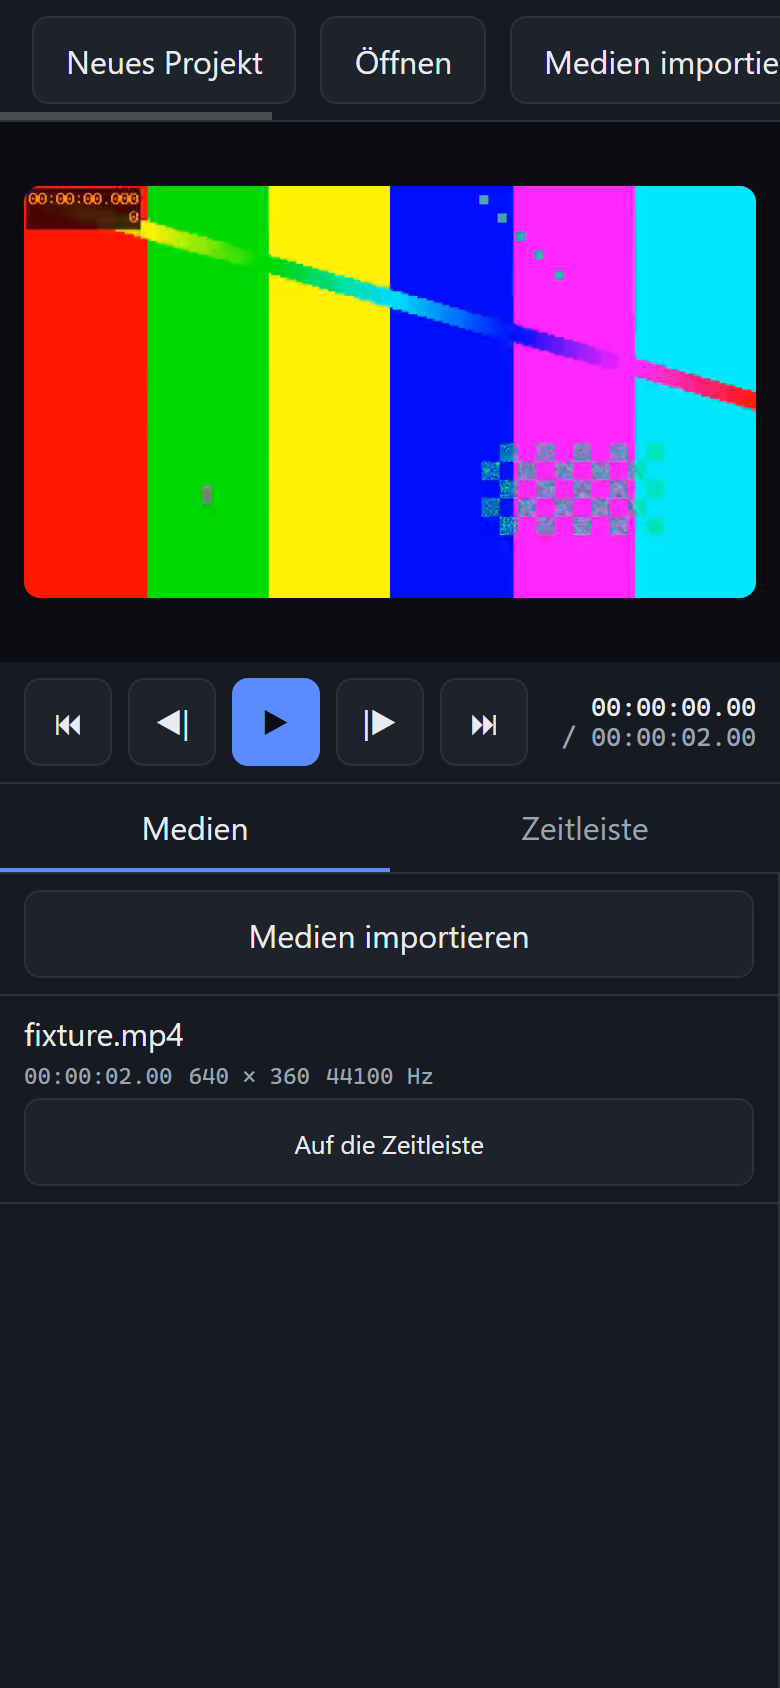
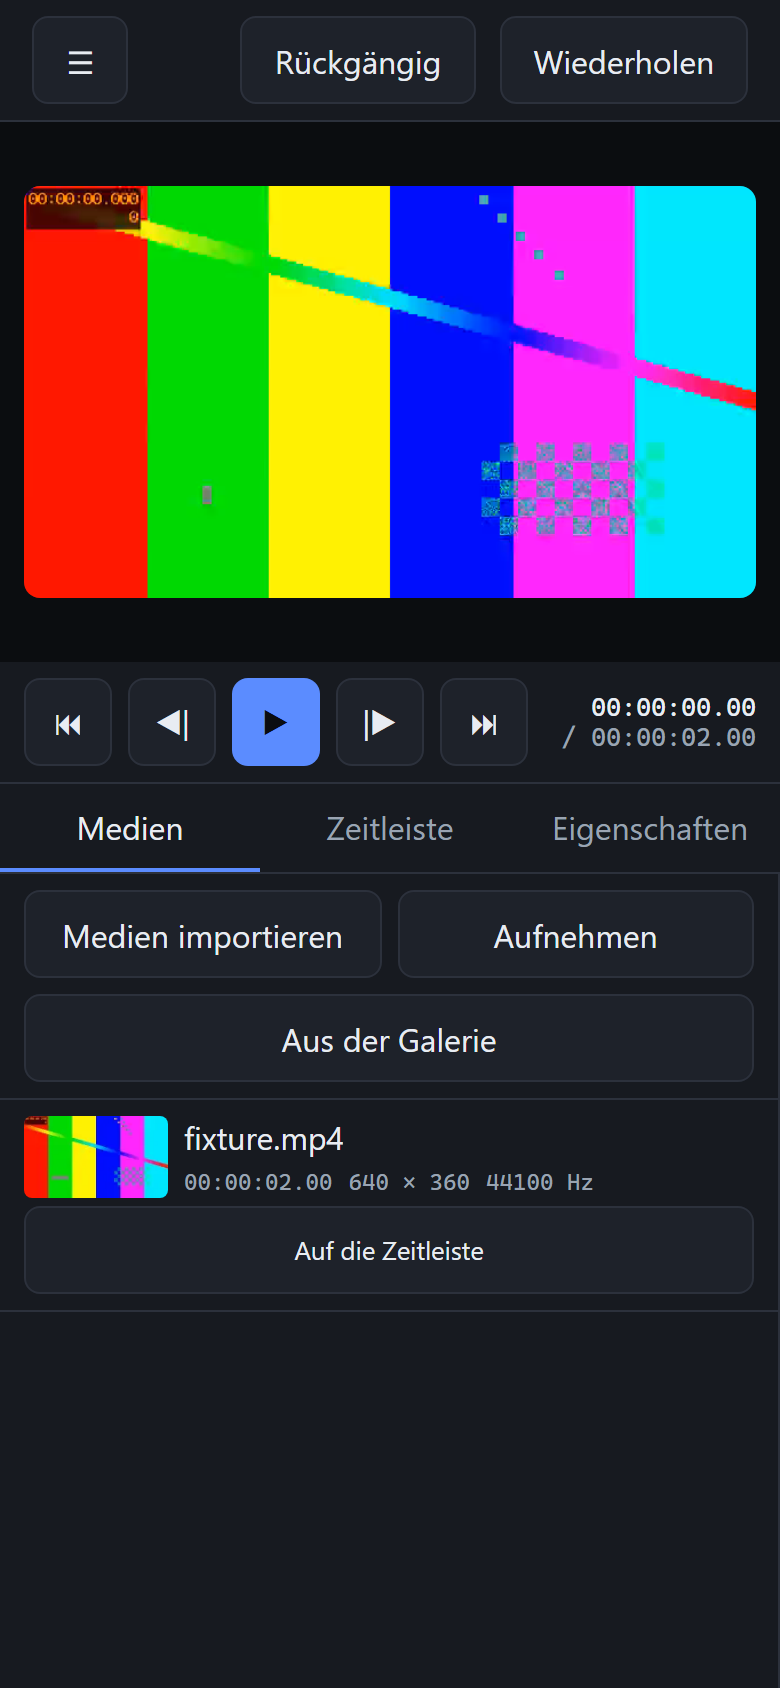
docs: Telefon- und Tablet-Abschnitt auf den gebauten Stand bringen
Kopfzeile im Ueberlaufmenue, dritter Reiter fuer Eigenschaften, Kamera und
Galerie ueber input[capture], und der Tablet-Modus als eigener Abschnitt mit
dem Zug aus der Bibliothek auf eine Spur. Im Abschnitt ueber Geprueftes steht
jetzt der Tablet-Lauf und was an capture nicht nachweisbar ist.

diff --git a/apps/docs/de/guide/editing.md b/apps/docs/de/guide/editing.md
@@ -139,20 +139,68 @@ fortsetzen; der erste Druck auf Abspielen tut deshalb etwas mehr als die folgend
 ![Die Medienbibliothek auf einem Telefon, die Vorschau bleibt darüber stehen](/phone-library.png)
 
 Unter 768 px wechselt der Editor in eine Spalte: Vorschau und Transport bleiben oben stehen, eine
-Leiste darunter wechselt zwischen **Medien** und **Zeitleiste**. Das Bild muss sichtbar bleiben,
-während man darunter arbeitet, und 390 px tragen Bibliothek, Vorschau und Timeline nicht
-nebeneinander, ohne dass alle drei unbrauchbar werden.
+Leiste darunter wechselt zwischen **Medien**, **Zeitleiste** und **Eigenschaften**. Das Bild muss
+sichtbar bleiben, während man darunter arbeitet, und 390 px tragen Bibliothek, Vorschau und Timeline
+nicht nebeneinander, ohne dass alle drei unbrauchbar werden.
 
-Zwei Bereiche, nicht die sechs aus dem Entwurf. Effekte, Text, Ton und Export haben noch keine
-Fläche; ein Reiter, der nichts öffnet, ist schlimmer als ein Reiter, den es nicht gibt — jeder
-kommt an dem Tag dazu, an dem seine Fläche kommt.
+Drei Bereiche, nicht die sechs aus dem Entwurf. Text, Ton und Export haben noch keine eigene Fläche;
+ein Reiter, der nichts öffnet, ist schlimmer als ein Reiter, den es nicht gibt — jeder kommt an dem
+Tag dazu, an dem seine Fläche kommt. **Eigenschaften** ist der dritte, weil dort Effekte, Keyframes,
+Übergänge und Tempo liegen: als Streifen zwischen Transport und Reiterleiste hatte der Bereich ein
+Drittel des Schirms und konnte trotzdem keinen einzigen Effekt zeigen, was das Telefon zum Betrachter
+statt zum Werkzeug machte.
 
 Der Bereich, der gerade nicht dran ist, wird ausgehängt statt versteckt. Die Timeline fenstert ihre
 Clips nach der Breite, die sie misst, und ein `display: none`-Behälter misst null — sie käme leer
 zurück.
 
-Sonst ändert sich nichts. Derselbe Pointer-Events-Pfad trägt Maus, Stift und Finger, die
-Trefferflächen waren schon 44 px, und alles, was am Schreibtisch erreichbar ist, ist es auch hier.
+Derselbe Pointer-Events-Pfad trägt Maus, Stift und Finger, die Trefferflächen sind 44 px.
+
+### Die Kopfzeile
+
+Die Kopfzeile trägt zehn Bedienelemente, und die passen bei 44 px nicht auf 390 px. Die
+Projektaktionen — neu, Vorlage, öffnen, importieren, Spur hinzufügen — liegen hinter dem **☰** links,
+auf dem Telefon zusätzlich Export, Speichern sowie Sprach- und Themenumschalter. Auf der Leiste
+bleiben Rückgängig und Wiederholen, die beiden, nach denen ein Daumen ständig greift.
+
+Es ist ein `<details>`-Element statt eines selbstgebauten Menüs: Offen-Zustand, Tastaturbedienung und
+zugänglicher Name kommen mit.
+
+Vorher scrollte die Leiste einfach seitwärts. Jeder Knopf blieb im Grundsatz erreichbar, und im
+Ruhezustand stand die Hälfte davon außerhalb des Fensters — „Medien importie…“ am rechten Rand
+abgeschnitten. Kein Test sah das, weil kein Test fragte, ob die Leiste ins Fenster passt. Jetzt tut
+es einer: bei 390 px muss ihre `scrollWidth` gleich ihrer `clientWidth` sein.
+
+### Kamera und Galerie
+
+Auf Telefon und Tablet bietet die Bibliothek neben **Medien importieren** auch **Aufnehmen** und
+**Aus der Galerie**. Beides sind gewöhnliche `<input type="file" accept="video/*">`; das erste trägt
+zusätzlich `capture="environment"`, und genau das fragt ein Telefon nach seiner rückwärtigen Kamera
+statt nach seinem Dateisystem.
+
+Dieses Attribut ist das ganze Feature, und so weit reicht auch der Nachweis: ein headless Browser hat
+weder Kamera noch Galerie. Die Harness prüft, dass das Feld da ist, mit dem richtigen `accept` und
+`capture`, und dass es eine 44-px-Fläche ist. Was ein echtes Telefon daraus macht, ist nicht
+beobachtet.
+
+## Auf dem Tablet
+
+![Der Editor auf einem Tablet, zwei Medien auf zwei Spuren](/tablet.png)
+
+Zwischen 768 px und 1280 px — und auf allem ohne feinen Zeiger, gleich welcher Breite — legt der
+Editor sich in zwei Spalten: die Medienbibliothek links, Bild, Transport und Eigenschaften
+übereinander rechts, die Zeitleiste über die ganze Breite unten.
+
+Zwei Spalten statt der drei vom Schreibtisch, weil ein Tablet im Hochformat knapp an Breite und
+reichlich an Höhe ist. Bei 834 px ließen drei Flächen nebeneinander der mittleren rund 330 px —
+schmaler als der Transport selbst, und die Zeitanzeige brach mitten in der Ziffer ab.
+
+Bibliothek und Zeitleiste sind gleichzeitig sichtbar, und das ist der Sinn des Modus: nur so lässt
+sich **ein Medium aus der Bibliothek auf eine Spur ziehen**, was das Telefon nicht anbieten kann,
+weil beide dort nie zusammen zu sehen sind. Eintrag drücken, über die Zeitleiste führen — die
+Zielspur leuchtet auf und eine Linie zeigt, wo der Clip beginnen würde — und loslassen. Ein Kommando,
+also ein Undo-Schritt. Der Knopf **Auf die Zeitleiste** bleibt daneben bestehen: ein Zug ist nicht
+mit der Tastatur bedienbar und wäre sonst der einzige Weg auf die Zeitleiste.
 
 ## Speichern
 
@@ -174,15 +222,24 @@ Bild am ersten Keyframe auf 0 zurück, in der Mitte auf die Hälfte und am zweit
 ursprüngliche Helligkeit — die Interpolation ist die des Kerns, die Pixel sind die des Compositors,
 und beide Hälften laufen in einem Durchgang.
 
-Das Phone-Layout wird auf einem echten 390×844-Viewport bei doppelter Pixeldichte gefahren, über das
-Devtools-Protokoll: Chrome unter Windows verweigert ein Fenster schmaler als 500 CSS-Pixel, mit
-`--window-size` allein hätte man also ein kleines Tablet vermessen und Telefon dazu gesagt. Import,
-ein Fingerzug, Rückgängig, beide Bereiche und die Wiedergabe werden dort geprüft, und die
-Schirmbilder oben stammen aus diesem Lauf.
+Das Phone-Layout wird auf einem echten 390×844-Viewport bei doppelter Pixeldichte gefahren, das
+Tablet auf 834×1112, beides über das Devtools-Protokoll mit eingeschalteter Berührung: Chrome unter
+Windows verweigert ein Fenster schmaler als 500 CSS-Pixel und beschneidet das Schirmbild, statt es zu
+skalieren — mit `--window-size` allein hätte man also ein kleines Tablet vermessen und Telefon dazu
+gesagt. Auf dem Telefon werden Import, ein Fingerzug, Rückgängig, jeder Reiter, ein auf einen Clip
+gelegter Effekt und die Wiedergabe geprüft; auf dem Tablet zwei Medien auf zwei Spuren, der Zug aus
+der Bibliothek auf eine Spur, und dass Bild, Transport und Flächen jeweils eine Box im Fenster
+bekommen. Die Schirmbilder oben stammen aus diesen Läufen.
+
+Vorschaubilder werden als Bilder geprüft, nicht als Elemente: das `<img>` muss eine `naturalWidth`
+ungleich null bei 160×90 melden, die beiden Medien im Tablet-Lauf müssen sich voneinander
+unterscheiden, und ein Standbild darf keine einzelne Fläche einer Farbe sein — ein Platzhalter, ein
+schwarzes Bild und ein fehlgeschlagenes Dekodieren fallen daran alle durch.
 
 Nicht geprüft: Lippensynchronität, weil headless Chrome keine Tonausgabe hat; die dauerhafte
-Bildrate bei 1080p; das Zurücklesen der Pixel in Telefongröße — der Zeichenpuffer ist fort, sobald
-die Seite ihn komponiert hat, und der Telefonlauf braucht die Wanduhr, damit sein Layout verlässlich
-ist, der Screenshot ist also der Beleg, dass die Vorschau auch dort dekodiert; und ein über den
-Inspector gesetzter Übergang ist nie gezeichnet worden, weil eine Überblendung zwei überlappende
-Clips braucht und die Harness eine Datei ablegt.
+Bildrate bei 1080p; was eine echte Kamera oder Galerie mit `capture` tut, weil ein headless Browser
+beides nicht hat; das Zurücklesen der Pixel in Telefongröße — der Zeichenpuffer ist fort, sobald die
+Seite ihn komponiert hat, und der Telefonlauf braucht die Wanduhr, damit sein Layout verlässlich ist,
+der Screenshot ist also der Beleg, dass die Vorschau auch dort dekodiert; und ein über den Inspector
+gesetzter Übergang ist nie gezeichnet worden, weil eine Überblendung zwei überlappende Clips über
+demselben Schnitt braucht.

diff --git a/apps/docs/guide/editing.md b/apps/docs/guide/editing.md
@@ -134,19 +134,66 @@ first press of play does slightly more work than the ones after it.
 ![The media library on a phone, with the preview staying above it](/phone-library.png)
 
 Below 768 px the editor switches to a single column: the preview and the transport stay at the top,
-and a tab bar underneath swaps between **Media** and **Timeline**. The picture has to stay visible
-while you work below it, and 390 px cannot hold a library, a preview and a timeline side by side
-without all three being useless.
+and a tab bar underneath swaps between **Media**, **Timeline** and **Properties**. The picture has
+to stay visible while you work below it, and 390 px cannot hold a library, a preview and a timeline
+side by side without all three being useless.
 
-Two tabs, not the six the design sketch names. Effects, text, audio and export have no panel yet;
+Three tabs, not the six the design sketch names. Text, audio and export have no panel of their own;
 a tab that opens nothing is worse than a tab that is not there, and each one joins the bar on the
-day its panel does.
+day its panel does. **Properties** is the third because it carries effects, keyframes, transitions
+and speed — while it sat as a strip between the transport and the tab bar it had a third of the
+screen and still could not show a single effect, which made the phone a viewer rather than an
+editor.
 
 The panel that is not showing is unmounted rather than hidden. The timeline windows its clips by
 the width it measures, and a `display: none` container measures zero — it would come back empty.
 
-Nothing else changes. The same Pointer Events path carries mouse, pen and finger, the touch targets
-were already 44 px, and every action reachable on a desktop is reachable here.
+The same Pointer Events path carries mouse, pen and finger, and the touch targets are 44 px.
+
+### The header
+
+The topbar carries ten controls, which do not fit 390 px at 44 px each. The project actions — new,
+template, open, import, add track — live behind the **☰** disclosure at the left, and on a phone
+export, save and the language and theme switches join them. What stays on the bar is undo and redo,
+the two a thumb reaches for constantly.
+
+It is a `<details>` element rather than a menu built by hand: the open state, the keyboard handling
+and the accessible name all come with it.
+
+Before this the bar simply scrolled sideways. Every button stayed reachable in principle, and in
+its resting state half of them sat outside the window — "Import medi…" cut off at the right edge.
+No test saw it, because no test asked whether the bar fitted the window. One does now: at 390 px
+its `scrollWidth` must equal its `clientWidth`.
+
+### Camera and gallery
+
+On a phone and a tablet the library offers **Record** and **From the gallery** beside **Import
+media**. Both are ordinary `<input type="file" accept="video/*">`; the first adds
+`capture="environment"`, which is what asks a phone for its rear camera instead of its file system.
+
+That attribute is the whole feature, and it is as far as verification goes: a headless browser has
+no camera and no gallery. The harness checks that the input is there with the right `accept` and
+`capture`, that it is a 44 px target, and nothing beyond that. What a real phone does with it has
+not been observed.
+
+## On a tablet
+
+![The editor on a tablet, two media on two tracks](/tablet.png)
+
+Between 768 px and 1280 px — and on anything without a fine pointer, whatever its width — the
+editor lays out in two columns: the media library down the left, the picture, the transport and the
+properties panel stacked on the right, and the timeline across the bottom.
+
+Two columns rather than the desktop's three, because a portrait tablet is short of width and long
+on height. At 834 px, three panels side by side left the middle about 330 px — narrower than the
+transport itself, which cut the timecode off mid-digit.
+
+The library and the timeline are on screen together, and that is the point of the mode: it is what
+lets you **drag a medium out of the library onto a track**, which a phone cannot offer because the
+two never show at the same time. Press an entry, carry it over the timeline — the target track
+lights up and a line shows where the clip would start — and let go. One command, so one undo step.
+The **Add to timeline** button stays as well: a drag is not keyboard-operable, and it is the only
+other way onto the timeline.
 
 ## Saving
 
@@ -166,13 +213,21 @@ at three moments. Against the same three frames without the effect, the picture 
 the first keyframe, at half in the middle and at the original brightness at the second — the
 interpolation is the core's, the pixels are the compositor's, and both halves run in one pass.
 
-The phone layout is driven at a real 390×844 viewport at twice the pixel density, over the devtools
-protocol: Chrome on Windows refuses a window narrower than 500 CSS pixels, so `--window-size` alone
-would have measured a small tablet and called it a phone. Import, a finger drag, undo, both tabs and
-playback are checked there, and the screenshots above come out of that run.
+The phone layout is driven at a real 390×844 viewport at twice the pixel density, and the tablet at
+834×1112, both over the devtools protocol with touch emulation on: Chrome on Windows refuses a
+window narrower than 500 CSS pixels and clips the screenshot instead of scaling it, so
+`--window-size` alone would have measured a small tablet and called it a phone. Import, a finger
+drag, undo, every tab, an effect put on a clip and playback are checked on the phone; on the tablet,
+two media on two tracks, the drag from the library onto a track, and that the picture, the transport
+and the panels each get a box inside the window. The screenshots above come out of those runs.
+
+Thumbnails are checked as pictures, not as elements: the `<img>` must report a non-zero
+`naturalWidth` at 160×90, the two media in the tablet run must differ from each other, and a still
+must not be one flat colour — a placeholder, a black frame and a failed decode all fail that.
 
 Not verified: lip-sync, because headless Chrome has no audio output; sustained frame rate at 1080p;
-pixel readback at phone size — the drawing buffer is gone once the page has composited it, and the
-phone run needs the wall clock for its layout to be trustworthy, so the screenshot is the evidence
-that the preview decodes there; and a transition set through the inspector has never been drawn,
-because a cross dissolve needs two overlapping clips and the harness drops one file.
+what a real camera or gallery does with `capture`, because a headless browser has neither; pixel
+readback at phone size — the drawing buffer is gone once the page has composited it, and the phone
+run needs the wall clock for its layout to be trustworthy, so the screenshot is the evidence that
+the preview decodes there; and a transition set through the inspector has never been drawn, because
+a cross dissolve needs two overlapping clips over the same cut.
